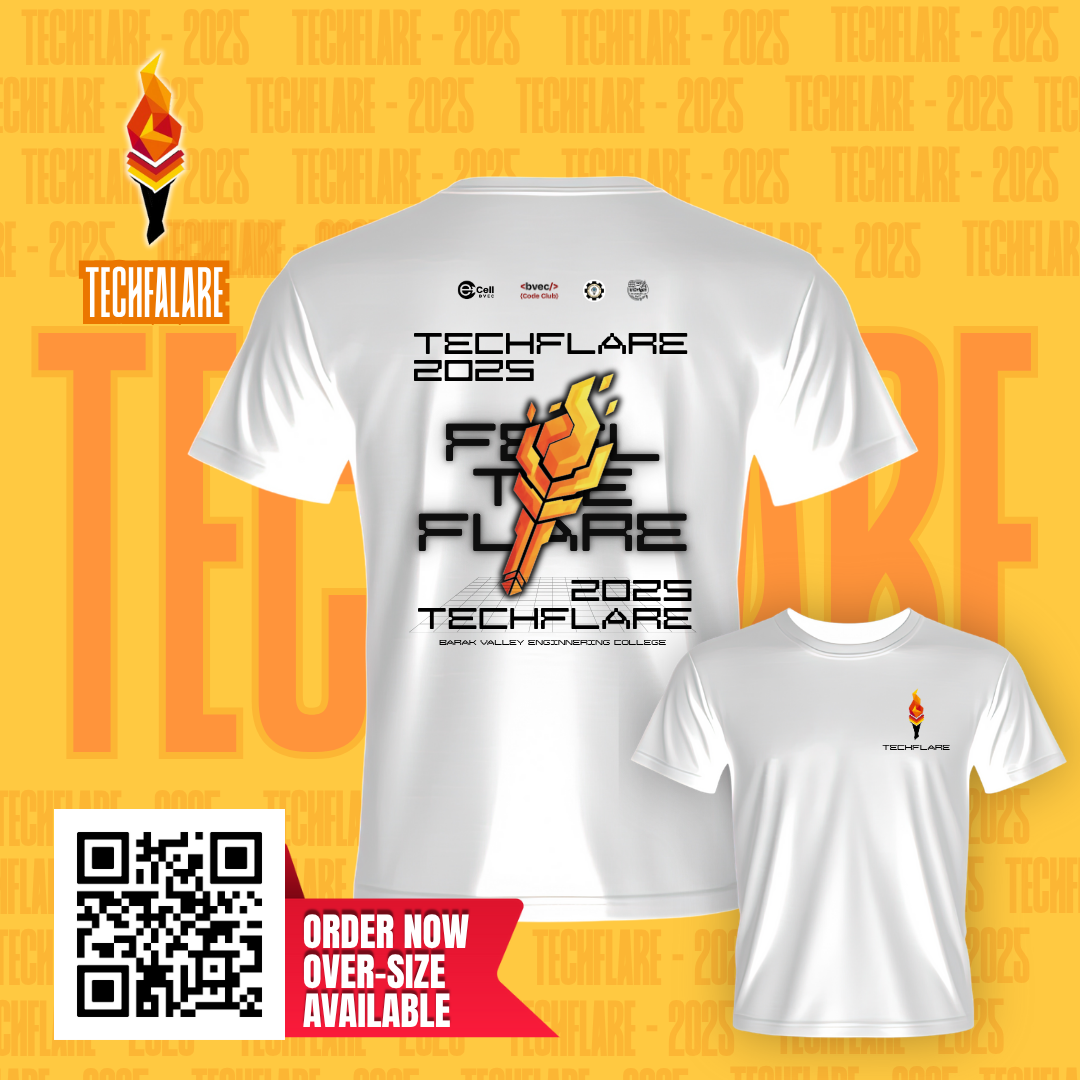
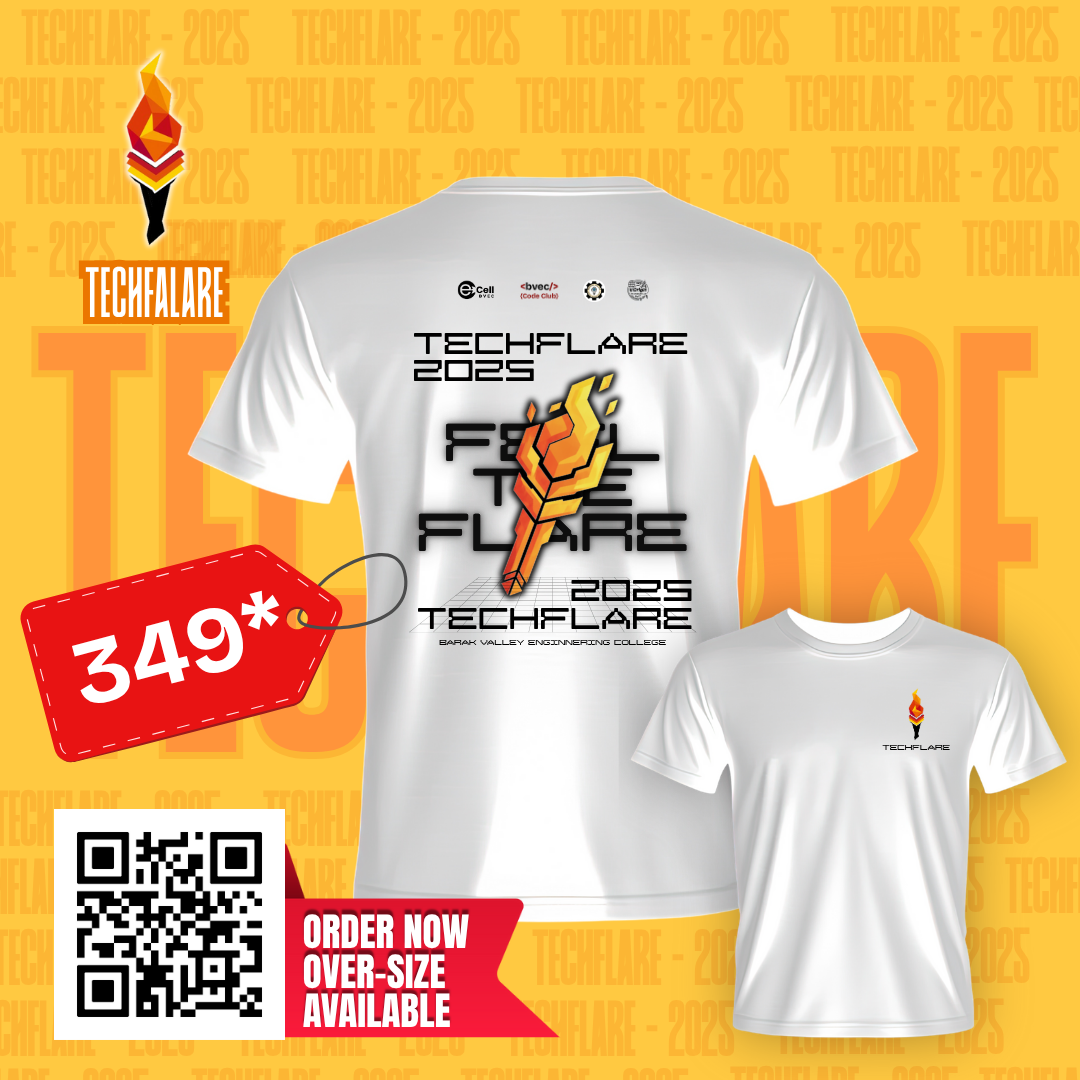
.

Changed region(s): [[0.0, 0.4889, 0.3667, 0.7028], [0.3667, 0.5194, 0.3972, 0.55], [0.3361, 0.4889, 0.3667, 0.5194]]

diff --git a/merchandise.html b/merchandise.html
@@ -154,6 +154,100 @@
 
 
 
+                /* ===== ONGOING EVENTS SECTION WITH INSTAGRAM SQUARE IMAGES ===== */
+                .events {
+            padding: 2rem 0;
+            background: var(--white);
+        }
+
+        .events-grid {
+            display: grid;
+            grid-template-columns: repeat(auto-fit, minmax(350px, 1fr));
+            gap: 2.5rem;
+            margin-top: 0.4rem;
+        }
+
+        .event-card {
+            background: var(--white);
+            border-radius: 1.2rem;
+            padding: 0;
+            text-align: center;
+            box-shadow: 0 15px 40px rgba(0,0,0,0.08);
+            transition: var(--transition);
+            border: 1px solid var(--gray-200);
+            overflow: hidden;
+        }
+
+        .event-card:hover {
+            transform: translateY(-8px);
+            box-shadow: 0 25px 50px rgba(0,0,0,0.15);
+        }
+
+        /* Instagram Square Ratio Images */
+        .event-img {
+            width: 100%;
+            aspect-ratio: 1 / 1;
+            object-fit: cover;
+            border-radius: 1.2rem 1.2rem 0 0;
+            margin-bottom: 0;
+        }
+
+        .event-content {
+            padding: 2.5rem;
+        }
+
+        .event-card h3 {
+            font-size: 1.6rem;
+            font-weight: 500;
+            color: var(--primary);
+            margin-bottom: 1.5rem;
+            letter-spacing: 0.02em;
+            font-family: var(--font-primary);
+        }
+
+        .event-card p {
+            color: var(--gray-600);
+            margin-bottom: 2.5rem;
+            line-height: 1.6;
+            font-size: 1rem;
+            font-weight: 400;
+        }
+
+        .event-btn {
+            background: var(--primary);
+            color: var(--white);
+            padding: 0.9rem 1.8rem;
+            border-radius: 30px;
+            text-decoration: none;
+            font-weight: 500;
+            transition: var(--transition);
+            display: inline-block;
+            margin: 0.4rem;
+            font-size: 0.9rem;
+            text-transform: uppercase;
+            letter-spacing: 0.03em;
+            font-family: var(--font-primary);
+        }
+
+        .event-btn:hover {
+            background: var(--primary-dark);
+            transform: translateY(-2px);
+            box-shadow: 0 8px 20px rgba(30, 58, 138, 0.3);
+        }
+
+
+
+        @media (max-width: 768px) {
+            .events-grid {
+                grid-template-columns: 1fr;
+            }
+
+            .events, .quotes-section {
+                padding: 2rem 0;
+            }
+        }
+
+
 
         /* ===== PERFECTLY ALIGNED FOOTER WITH PROPER FONT WEIGHTS ===== */
 .footer {
@@ -474,6 +568,42 @@
     </div>
 </section>
 
+
+<!-- Ongoing Events with Instagram Square Images -->
+<section id="initiatives" class="events">
+    <div class="container">
+        <div class="events-grid">
+            <div class="event-card">
+                <img src="Merchandise- TechFalre/Black merchandise.png" alt="Startup Bootcamp" class="event-img" onerror="this.src='img/placeholder-square.jpg'">
+                <div class="event-content">
+                    <h3>TechFlare - Black Merchandise</h3>
+                    <p>A comprehensive program designed to transform your innovative ideas into viable business ventures through expert mentorship and hands-on training.</p>
+
+                    <a href="https://docs.google.com/forms/d/e/1FAIpQLSfYtSDTiQcuCR9lvdS6qH4i_j7jSKu-_pkkCtqNAU2fdwi2Cg/viewform?pli=1" class="event-btn">BUY NOW!</a>
+                </div>
+            </div>
+            
+            <div class="event-card">
+                <img src="Merchandise- TechFalre/White merchandise.png" alt="Pitch Perfect" class="event-img" onerror="this.src='img/placeholder-square.jpg'">
+                <div class="event-content">
+                    <h3>TechFlare - White Merchandise</h3>
+                    <p>Entrepreneurship cell, BVEC
+                        Powered by NEC & E-Cell, IIT Bombay | 24th August 2025  |  6.00 PM</p>
+                    <a href="https://docs.google.com/forms/d/e/1FAIpQLSfYtSDTiQcuCR9lvdS6qH4i_j7jSKu-_pkkCtqNAU2fdwi2Cg/viewform?pli=1" class="event-btn">BUY NOW!</a>
+                    <!--<a href="#" class="event-btn">Learn More</a>-->
+                </div>
+            </div>
+            
+           
+
+            
+         
+            </div>
+           
+            </div>
+        </div>
+    </div>
+</section>
 
 
     <!-- Footer - Perfect Alignment with Proper Font Weights -->
